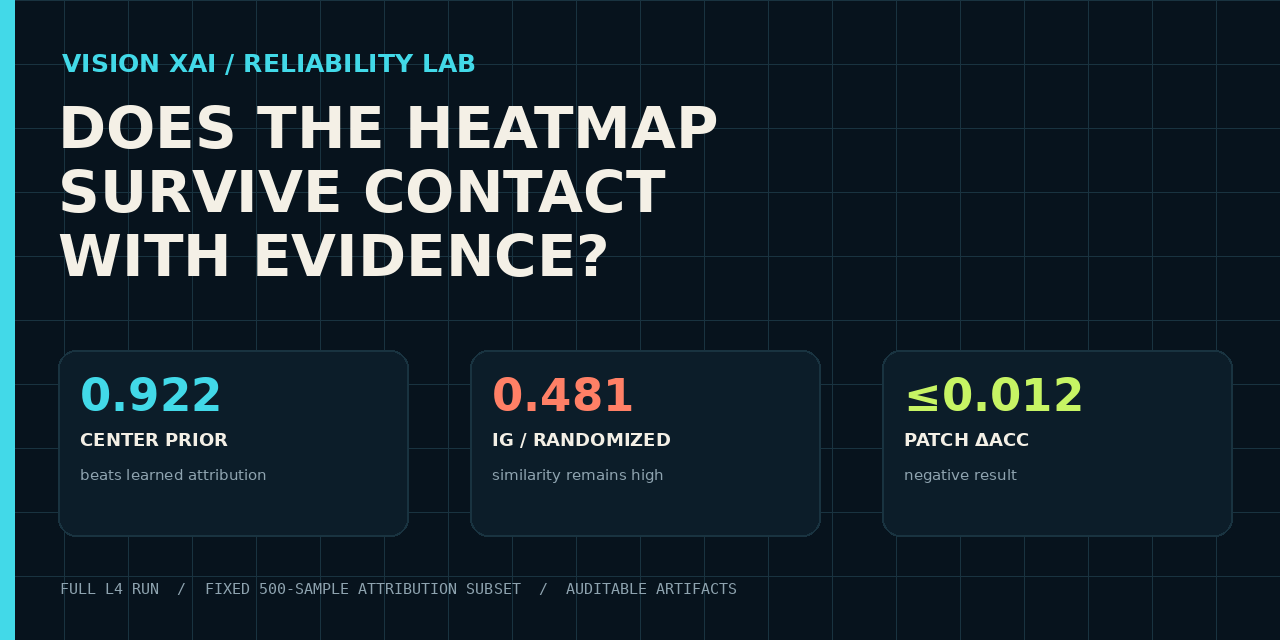
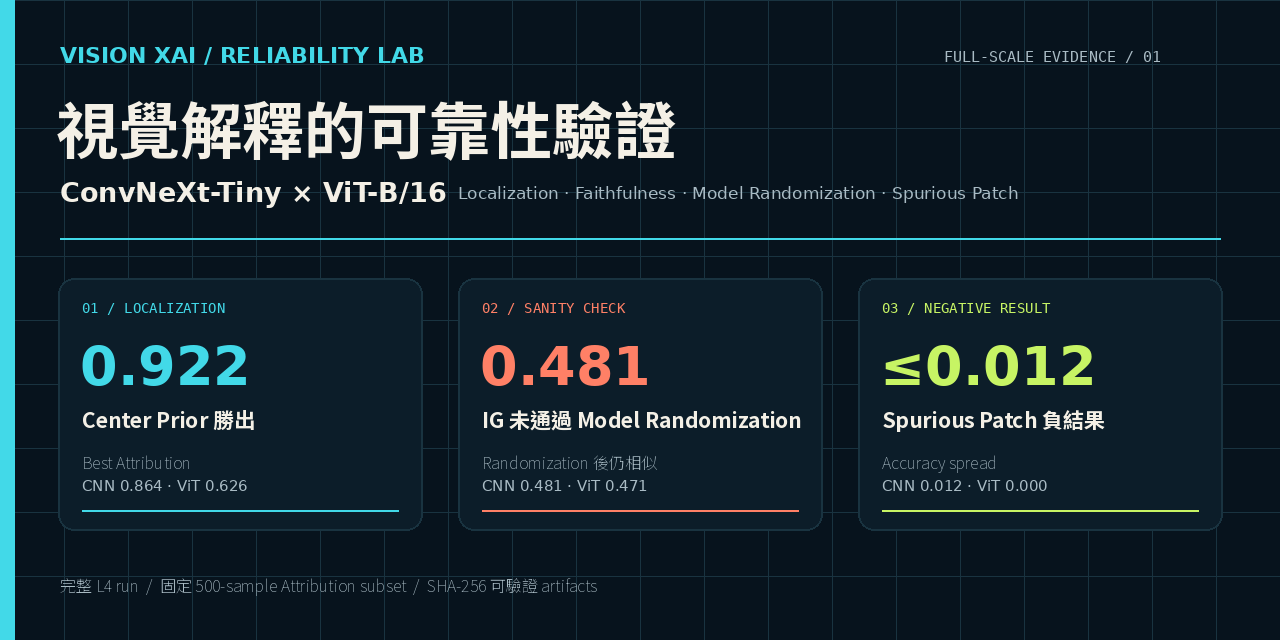
Refresh Traditional Chinese social preview

diff --git a/tools/portfolio_assets.py b/tools/portfolio_assets.py
@@ -3,6 +3,7 @@
 from __future__ import annotations
 
 import argparse
+import contextlib
 import json
 import sys
 from dataclasses import dataclass
@@ -16,11 +17,16 @@ BASELINES = {"center", "random", "uniform"}
 INK = "#07131D"
 PANEL = "#0C1D29"
 IVORY = "#F4F0E6"
-MUTED = "#8EA3AF"
+MUTED = "#A9BBC4"
 CYAN = "#42D9E8"
 LIME = "#C7F464"
 CORAL = "#FF8066"
 GRID = "#193340"
+CJK_FONT_CANDIDATES = (
+    Path("C:/Windows/Fonts/NotoSansTC-VF.ttf"),
+    Path("/usr/share/fonts/opentype/noto/NotoSansCJK-Regular.ttc"),
+    Path("/usr/share/fonts/opentype/noto/NotoSansCJKtc-Regular.otf"),
+)
 
 
 class PortfolioAssetError(RuntimeError):
@@ -100,7 +106,21 @@ def extract_portfolio_metrics(summary: dict[str, Any]) -> PortfolioMetrics:
         raise PortfolioAssetError("canonical full summary has an unexpected shape") from exc
 
 
-def _font(size: int, *, bold: bool = False, mono: bool = False) -> ImageFont.FreeTypeFont:
+def _font(
+    size: int, *, bold: bool = False, mono: bool = False, cjk: bool = False
+) -> ImageFont.FreeTypeFont:
+    if cjk:
+        for path in CJK_FONT_CANDIDATES:
+            if path.is_file():
+                font = ImageFont.truetype(path, size=size)
+                if bold:
+                    with contextlib.suppress(OSError):
+                        font.set_variation_by_name("Bold")
+                return font
+        family = "Noto Sans CJK TC"
+        properties = font_manager.FontProperties(family=family, weight="bold" if bold else "normal")
+        resolved = font_manager.findfont(properties, fallback_to_default=True)
+        return ImageFont.truetype(resolved, size=size)
     family = "DejaVu Sans Mono" if mono else "DejaVu Sans"
     properties = font_manager.FontProperties(family=family, weight="bold" if bold else "normal")
     return ImageFont.truetype(font_manager.findfont(properties), size=size)
@@ -118,43 +138,108 @@ def _render_social(metrics: PortfolioMetrics) -> Image.Image:
     draw = ImageDraw.Draw(image)
     _draw_grid(draw, 1280, 640, spacing=64)
     draw.rectangle((0, 0, 14, 640), fill=CYAN)
-    draw.text((62, 48), "VISION XAI / RELIABILITY LAB", font=_font(25, bold=True), fill=CYAN)
-    draw.text((58, 94), "DOES THE HEATMAP", font=_font(58, bold=True), fill=IVORY)
-    draw.text((58, 158), "SURVIVE CONTACT", font=_font(58, bold=True), fill=IVORY)
-    draw.text((58, 222), "WITH EVIDENCE?", font=_font(58, bold=True), fill=IVORY)
+    draw.text((60, 42), "VISION XAI / RELIABILITY LAB", font=_font(22, bold=True), fill=CYAN)
+    draw.text(
+        (944, 48),
+        "FULL-SCALE EVIDENCE / 01",
+        font=_font(15, mono=True),
+        fill=MUTED,
+    )
+    draw.text(
+        (56, 92),
+        "視覺解釋的可靠性驗證",
+        font=_font(62, bold=True, cjk=True),
+        fill=IVORY,
+    )
+    draw.text(
+        (60, 176),
+        "ConvNeXt-Tiny \N{MULTIPLICATION SIGN} ViT-B/16",
+        font=_font(27, bold=True),
+        fill=IVORY,
+    )
+    draw.text(
+        (458, 183),
+        "Localization · Faithfulness · Model Randomization · Spurious Patch",
+        font=_font(17),
+        fill=MUTED,
+    )
+    draw.line((60, 238, 1220, 238), fill=CYAN, width=2)
 
     spurious_spread = max(
         metrics.cnn_spurious_accuracy_spread, metrics.vit_spurious_accuracy_spread
     )
     cards = (
-        (58, CYAN, f"{metrics.center_pointing:.3f}", "CENTER PRIOR", "beats learned attribution"),
         (
-            470,
-            CORAL,
-            f"{metrics.cnn_ig_randomization:.3f}",
-            "IG / RANDOMIZED",
-            "similarity remains high",
+            58,
+            CYAN,
+            "LOCALIZATION",
+            f"{metrics.center_pointing:.3f}",
+            "Center Prior 勝出",
+            "Best Attribution",
+            (
+                f"CNN {metrics.cnn_best_attribution_pointing:.3f}"
+                f" · ViT {metrics.vit_best_attribution_pointing:.3f}"
+            ),
         ),
         (
-            882,
+            458,
+            CORAL,
+            "SANITY CHECK",
+            f"{metrics.cnn_ig_randomization:.3f}",
+            "IG 未通過 Model Randomization",
+            "Randomization 後仍相似",
+            f"CNN {metrics.cnn_ig_randomization:.3f} · ViT {metrics.vit_ig_randomization:.3f}",
+        ),
+        (
+            858,
             LIME,
+            "NEGATIVE RESULT",
             f"≤{spurious_spread:.3f}",
-            "PATCH ΔACC",
-            "negative result",
+            "Spurious Patch 負結果",
+            "Accuracy spread",
+            (
+                f"CNN {metrics.cnn_spurious_accuracy_spread:.3f}"
+                f" · ViT {metrics.vit_spurious_accuracy_spread:.3f}"
+            ),
         ),
     )
-    for left, accent, value, title, detail in cards:
+    for index, (left, accent, category, value, title, detail, detail_value) in enumerate(
+        cards, start=1
+    ):
         draw.rounded_rectangle(
-            (left, 350, left + 350, 536), radius=18, fill=PANEL, outline=GRID, width=2
+            (left, 278, left + 364, 530), radius=16, fill=PANEL, outline=GRID, width=2
         )
-        draw.text((left + 22, 369), value, font=_font(45, bold=True), fill=accent)
-        draw.text((left + 22, 429), title, font=_font(18, bold=True), fill=IVORY)
-        draw.text((left + 22, 466), detail, font=_font(15), fill=MUTED)
+        draw.text(
+            (left + 24, 300),
+            f"0{index} / {category}",
+            font=_font(14, mono=True),
+            fill=accent,
+        )
+        draw.text((left + 22, 334), value, font=_font(54, bold=True), fill=accent)
+        draw.text(
+            (left + 24, 407),
+            title,
+            font=_font(21, bold=True, cjk=True),
+            fill=IVORY,
+        )
+        draw.text(
+            (left + 24, 453),
+            detail,
+            font=_font(16, cjk=True),
+            fill=MUTED,
+        )
+        draw.text(
+            (left + 24, 477),
+            detail_value,
+            font=_font(15),
+            fill=MUTED,
+        )
+        draw.line((left + 24, 510, left + 340, 510), fill=accent, width=2)
     draw.text(
-        (60, 580),
-        f"FULL L4 RUN  /  FIXED {metrics.attribution_subset}-SAMPLE ATTRIBUTION SUBSET"
-        "  /  AUDITABLE ARTIFACTS",
-        font=_font(15, mono=True),
+        (60, 576),
+        f"完整 L4 run  /  固定 {metrics.attribution_subset}-sample Attribution subset"
+        "  /  SHA-256 可驗證 artifacts",
+        font=_font(16, cjk=True),
         fill=MUTED,
     )
     return image
